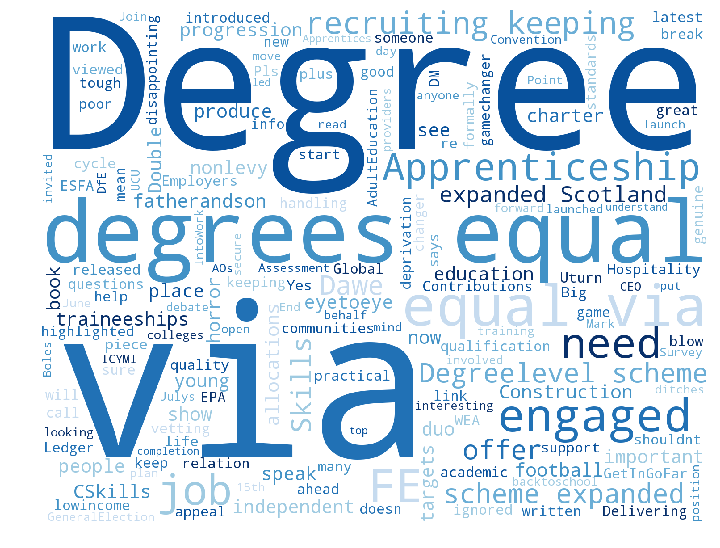
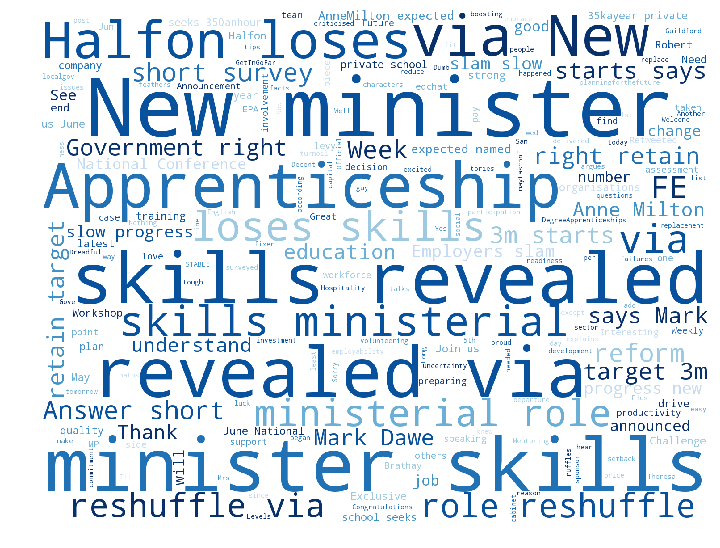
update 170616

diff --git a/docs/current/FE-accounts/dashboard.html b/docs/current/FE-accounts/dashboard.html
@@ -172,71 +172,71 @@
         <div class="header">
             <span class="header"><img class="header" src="https://assets.publishing.service.gov.uk/government/uploads/system/uploads/organisation/logo/1214/6.2614_DFE_IfA_Identity_Master_logo_RGB_AW.jpg" /></span>
             <span class="header"><h1>Twitter Dashboard<h1/></span>
-            <p>617 followers, 26 tweets</p>
-            <p>28 May 2017 - 05 June 2017</p>
+            <p>635 followers, 26 tweets</p>
+            <p>06 June 2017 - 15 June 2017</p>
         </div>
         <div class="line"></div>
         <div style="width: 100%; height: 80%;">
             <div style="float:left; width: 49%;">
                 <div style="float:left; width: 49%;">
-                    <h2>32 tweets from FE-accounts:</h2>
+                    <h2>72 tweets from FE-accounts:</h2>
                     <img class="wc" src="main-wc.png" />
                     <div class="line"></div>
                     <div style="width: 48%; float:left; margin-left:0%;" class="listbox">
                         <p><b>Most Used Hashtags</b></p>
                         <ol>
+                            <li>ge2017</li>
+                            <li>apprenticeship</li>
+                            <li>trailblazer</li>
                             <li>apprenticeships</li>
-                            <li></li>
-                            <li></li>
-                            <li></li>
-                            <li></li>
-                            <li></li>
-                            <li></li>
-                            <li></li>
+                            <li>reshuffle</li>
+                            <li>conservativemanifesto</li>
+                            <li>generalelection</li>
+                            <li>lionawards</li>
                         </ol>
                     </div>
                     <div style="float:right; width: 48%;" class="listbox">
                         <p><b>Most Mentioned Users</b></p>
                         <ol>
-                            <li>universitiesuk</li>
-                            <li>nsafd</li>
-                            <li>apprenticeships</li>
-                            <li>lsbu</li>
-                            <li>tes</li>
-                            <li>lmcollege</li>
-                            <li>telfordwrekin</li>
-                            <li>telfordcollege</li>
+                            <li>ifateched</li>
+                            <li>frankielinn</li>
+                            <li>eef_economists</li>
+                            <li>aelpuk</li>
+                            <li>unisontweets</li>
+                            <li>cheltcollege</li>
+                            <li>conservatives</li>
+                            <li>joe_dromey</li>
                         </ol>
                     </div>
                 </div>
                 <div style="float:right; width: 49%;">
-                    <h2>42 tweets mentioning FE-accounts:</h2>
+                    <h2>119 tweets mentioning FE-accounts:</h2>
                     <img class="wc" src="all-wc.png"/>
                     <div class="line"></div>
                     <div style="width: 48%; float:left; margin-left:0%;" class="listbox">
                         <p><b>Most Used Hashtags</b></p>
                         <ol>
                             <li>apprenticeships</li>
-                            <li>apprenticeship</li>
-                            <li>aos</li>
-                            <li>generalelection</li>
-                            <li>construction</li>
-                            <li>epa</li>
                             <li>skills</li>
-                            <li>getingofar</li>
+                            <li>apprenticeship</li>
+                            <li>education</li>
+                            <li>epa</li>
+                            <li>edchat</li>
+                            <li>skillshortages</li>
+                            <li>joinlearngrow</li>
                         </ol>
                     </div>
                     <div style="float:right; width: 48%;" class="listbox">
                         <p><b>Most Engaged Users</b></p>
                         <ol>
-                            <li>aelpuk</li>
-                            <li>tq_uk</li>
-                            <li>apprenvoice</li>
-                            <li>bac_education</li>
                             <li>tesfenews</li>
+                            <li>feweek</li>
+                            <li>nicklinford</li>
+                            <li>grahamnocn1</li>
+                            <li>louismmcoiffait</li>
+                            <li>shanermann</li>
+                            <li>apprenvoice</li>
                             <li>swacapprentices</li>
-                            <li>tribalgroup</li>
-                            <li>sallygarbett</li>
                         </ol>
                     </div>
                 </div>
@@ -264,30 +264,11 @@
             <div style="float:right; width: 49%;">
                 <h2>Most popular tweets:</h2>
                 <div class="tweet">
-                    <div><img src="http://pbs.twimg.com/profile_images/834805935021375488/Hd4Xp8nB_normal.jpg" class="profile"></div>
+                    <div><img src="http://pbs.twimg.com/profile_images/808611488776785920/Q3yHxQJv_normal.jpg" class="profile"></div>
                     <div class="tweetext">
-                        <p><b>AELPUK</b>
-                            <br>'Degree apprenticeships and degrees can be equal' https://t.co/nbf5DCBU0M via @tes</p>
-                        <p><b>6</b> likes, <b>4</b> retweets - <a href=https://twitter.com/statuses/870265871264092160>13:08 01 June 2017</a></p>
-                    </div>
-                </div>
-                
-                <div class="tweet">
-                    <div><img src="http://pbs.twimg.com/profile_images/834805935021375488/Hd4Xp8nB_normal.jpg" class="profile"></div>
-                    <div class="tweetext">
-                        <p><b>AELPUK</b>
-                            <br>The @Apprenticeships levy will accelerate the trend for learning on the job https://t.co/XGRMK001ZA</p>
-                        <p><b>3</b> likes, <b>7</b> retweets - <a href=https://twitter.com/statuses/869164864685604865>12:13 29 May 2017</a></p>
-                    </div>
-                </div>
-                
-                <div class="tweet">
-                    <div><img src="http://pbs.twimg.com/profile_images/848900452058050560/nhiMlZQl_normal.jpg" class="profile"></div>
-                    <div class="tweetext">
-                        <p><b>tes</b>
-                            <br>'Colleges cannot put all their eggs in the apprenticeships basket' @JBelgutay 
-https://t.co/uts9SJk08L</p>
-                        <p><b>3</b> likes, <b>4</b> retweets - <a href=https://twitter.com/statuses/871261526866440192>07:05 04 June 2017</a></p>
+                        <p><b>FEWeek</b>
+                            <br>EXCLUSIVE : @Halfon4Harlow loses apprenticeships and skills ministerial role in reshuffle &gt; https://t.co/de9m0AynEj</p>
+                        <p><b>8</b> likes, <b>30</b> retweets - <a href=https://twitter.com/statuses/874338213204250625>18:50 12 June 2017</a></p>
                     </div>
                 </div>
                 
@@ -295,8 +276,26 @@ https://t.co/uts9SJk08L</p>
                     <div><img src="http://pbs.twimg.com/profile_images/808611488776785920/Q3yHxQJv_normal.jpg" class="profile"></div>
                     <div class="tweetext">
                         <p><b>FEWeek</b>
-                            <br>Warnings over future of degree #apprenticeships from @UniversitiesUK as non-levy allocations horror show rolls on: https://t.co/wxov1QLj7I</p>
-                        <p><b>1</b> likes, <b>6</b> retweets - <a href=https://twitter.com/statuses/870934092015075329>09:24 03 June 2017</a></p>
+                            <br>Min wage groundskeeper #apprenticeship @cheltcollege branded "disgrace" by @unisontweets  https://t.co/Ot8kBGoJ3V</p>
+                        <p><b>4</b> likes, <b>19</b> retweets - <a href=https://twitter.com/statuses/873179707411492864>14:07 09 June 2017</a></p>
+                    </div>
+                </div>
+                
+                <div class="tweet">
+                    <div><img src="http://pbs.twimg.com/profile_images/808611488776785920/Q3yHxQJv_normal.jpg" class="profile"></div>
+                    <div class="tweetext">
+                        <p><b>FEWeek</b>
+                            <br>#Trailblazer groups are tired of waiting for new #apprenticeship standards to be approved by @IFAteched   https://t.co/Bey04ikszn</p>
+                        <p><b>7</b> likes, <b>11</b> retweets - <a href=https://twitter.com/statuses/873433297547919360>06:55 10 June 2017</a></p>
+                    </div>
+                </div>
+                
+                <div class="tweet">
+                    <div><img src="http://pbs.twimg.com/profile_images/808611488776785920/Q3yHxQJv_normal.jpg" class="profile"></div>
+                    <div class="tweetext">
+                        <p><b>FEWeek</b>
+                            <br>The new minister for apprenticeships and skills has been revealed #reshuffle #GE2017  https://t.co/VUdPqxDXv5</p>
+                        <p><b>4</b> likes, <b>11</b> retweets - <a href=https://twitter.com/statuses/874737400408354816>21:17 13 June 2017</a></p>
                     </div>
                 </div>
                 
@@ -307,27 +306,27 @@ https://t.co/uts9SJk08L</p>
                 <h2>Most popular mentions:</h2>
                 
                 <div class="tweet">
-                    <div><img src="http://pbs.twimg.com/profile_images/844956358621499392/Ifqr0yGv_normal.jpg" class="profile"></div>
-                    <div class="tweetext"><b>tesfenews</b> - 20,179 followers
+                    <div><img src="http://pbs.twimg.com/profile_images/875464220552437760/YbxKpzDG_normal.jpg" class="profile"></div>
+                    <div class="tweetext"><b>NickLinford</b> - 10,943 followers
                         <br>
-                        <p>Double Dawe: why FE's father-and-son duo see eye-to-eye on FE, apprenticeships and football @AELPUK @CareerCollegesT https://t.co/AU00coM946</p>
-                        <p><b>2</b> likes, <b>8</b> retweets - <a href=https://twitter.com/statuses/871382324037943300>15:05 04 June 2017</a></p>
+                        <p>Exclusive: New minister for apprenticeships and skills revealed https://t.co/v8aE5tDIIw via @feweek</p>
+                        <p><b>10</b> likes, <b>36</b> retweets - <a href=https://twitter.com/statuses/874649423082647552>15:27 13 June 2017</a></p>
                     </div>
                 </div>
                 <div class="tweet">
-                    <div><img src="http://pbs.twimg.com/profile_images/834805935021375488/Hd4Xp8nB_normal.jpg" class="profile"></div>
-                    <div class="tweetext"><b>AELPUK</b> - 9,626 followers
+                    <div><img src="http://pbs.twimg.com/profile_images/732621951785684992/krfceqjB_normal.jpg" class="profile"></div>
+                    <div class="tweetext"><b>ucu</b> - 19,455 followers
                         <br>
-                        <p>'Degree apprenticeships and degrees can be equal' https://t.co/nbf5DCBU0M via @tes</p>
-                        <p><b>6</b> likes, <b>4</b> retweets - <a href=https://twitter.com/statuses/870265871264092160>13:08 01 June 2017</a></p>
+                        <p>FE Week: £35k-a-year private school seeks £3.50-an-hour apprentice https://t.co/CVUYGSSF07 via @feweek</p>
+                        <p><b>6</b> likes, <b>16</b> retweets - <a href=https://twitter.com/statuses/873490604327567361>10:42 10 June 2017</a></p>
                     </div>
                 </div>
                 <div class="tweet">
-                    <div><img src="http://pbs.twimg.com/profile_images/492310769833213952/7ZZ3fWYZ_normal.jpeg" class="profile"></div>
-                    <div class="tweetext"><b>WEAadulted</b> - 4,813 followers
+                    <div><img src="http://pbs.twimg.com/profile_images/875464220552437760/YbxKpzDG_normal.jpg" class="profile"></div>
+                    <div class="tweetext"><b>NickLinford</b> - 10,943 followers
                         <br>
-                        <p>WEA in @FEWeek: #AdultEducation can 'help those in low-income communities break the cycle of deprivation' https://t.co/MA5H40NckV</p>
-                        <p><b>2</b> likes, <b>5</b> retweets - <a href=https://twitter.com/statuses/871654754149183488>09:07 05 June 2017</a></p>
+                        <p>New minister for apprenticeships and skills revealed: https://t.co/v8aE5tDIIw via @feweek</p>
+                        <p><b>1</b> likes, <b>14</b> retweets - <a href=https://twitter.com/statuses/874663190386409472>16:22 13 June 2017</a></p>
                     </div>
                 </div>
             
